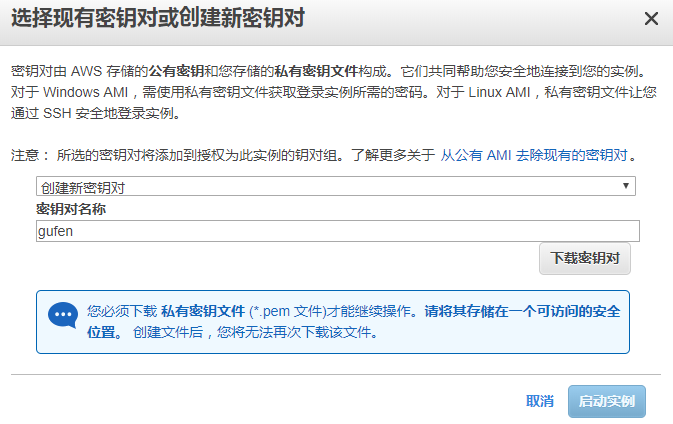
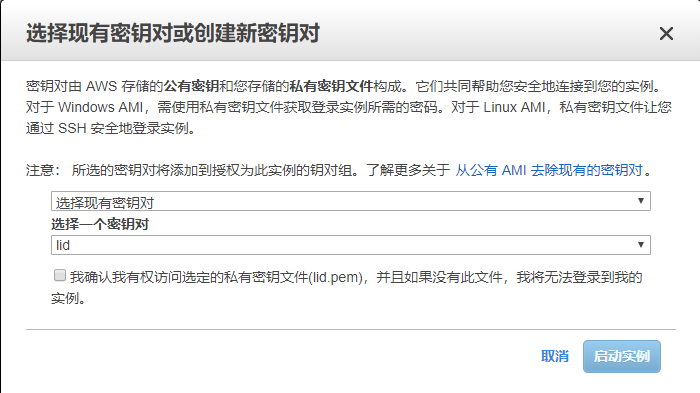
a

Changed region(s): [[0.0, 0.0, 1.0, 1.0]]

diff --git a/_posts/2019/2019-02-21-amazon-server.md b/_posts/2019/2019-02-21-amazon-server.md
@@ -20,27 +20,27 @@ tags: [other]
 
 官网地址：https://amazonaws-china.com/cn
 
-如果你没有亚马逊账号，那么先注册一个账号，访问官网后，点击右上角的注册选项开始注册：
+- 如果你没有亚马逊账号，那么先注册一个账号，访问官网后，点击右上角的注册选项开始注册：
 
 
 
 ![选择注册选项，开始注册亚马逊账号](https://ldmyown.github.io\assets\images\2019\amazon-server\aws1.png)
 
-然后输入邮箱、密码等信息，如：
+- 输入邮箱、密码等信息，如：
 
 ![输入邮箱等信息](https://ldmyown.github.io\assets\images\2019\amazon-server\aws2.png)
 
-接着继续填写联系人信息，如下：
+- 填写联系人信息，如下：
 
 ![填写账号类型](https://ldmyown.github.io\assets\images\2019\amazon-server\aws3.png)
 
 ![填写个人信息](https://ldmyown.github.io\assets\images\2019\amazon-server\aws4.png)
 
-然后点击创建账户并继续，如果上面填写的信息没问题，则进入到信用卡验证这一步。如下：
+- 点击创建账户并继续，如果上面填写的信息没问题，则进入到信用卡验证这一步。如下：
 
 ![验证个人信息及信用卡信息](https://ldmyown.github.io\assets\images\2019\amazon-server\aws5.png)
 
-信息提交成功后，信用卡会扣款 1 美元。接着进入下一步，电话验证：
+- 信息提交成功后，信用卡会扣款 1 美元。接着进入下一步，电话验证：
 
 ![输入电话号码，获取 pin 码](https://ldmyown.github.io\assets\images\2019\amazon-server\aws6.png)
 
@@ -52,49 +52,52 @@ tags: [other]
 
 ![手机输入pin码，验证成功提示](https://ldmyown.github.io\assets\images\2019\amazon-server\aws8.png)
 
-然后接着点击继续进入下一步，选择支持计划：
+- 接着点击继续进入下一步，选择支持计划：
 
 ![选择免费方案](https://ldmyown.github.io\assets\images\2019\amazon-server\aws9.png)
 
-我们选择基本方案免费选项，进入下一步，这一步会我们的账户处于激活中，如果成功激活后会收到一封激活邮件，这个过程大概几分钟的时间：
+- 这里我只是免费体验一下，所以选择的是免费的方案，服务器性能较低，如果是土豪可以选择收费套餐
+
+
+- 下一步，会告诉我们账户正在激活中，如果成功激活，则会向我们绑定的邮箱中发一封激活邮件，这个过程大概几分钟的时间，此过程中不能操作创建实例，请耐心等待
 
 ![成功后会收到一封邮件提示](https://ldmyown.github.io\assets\images\2019\amazon-server\aws10.png)
 
 ## 亚马逊云 EC2 搭建
 
-点击右上角的我的账户，然后选择 AWS 控制台，输入账号、密码进行登录：
+- 点击右上角的我的账户，然后选择 AWS 控制台，输入账号、密码进行登录：
 
 ![登录 aws 控制台](https://ldmyown.github.io\assets\images\2019\amazon-server\aws11.png)
 
-登录后，右上角的地区选择一个合适的地区，如：
+- 登录后，右上角的地区选择一个合适的地区，如：
 
 ![选择合适的地区](https://ldmyown.github.io\assets\images\2019\amazon-server\aws12.png)
 
-接着，在左上角的服务，选择 EC2，如：
+- 左上角的服务，选择 EC2，如：
 
 ![在控制台选择 EC2](https://ldmyown.github.io\assets\images\2019\amazon-server\aws13.png)
 
-然后在新开的页面中，会有一个创建实例的选项：
+- 在新开的页面中，会有一个创建实例的选项：
 
 ![创建EC2实例](https://ldmyown.github.io\assets\images\2019\amazon-server\aws14.png)
 
-点击启动实例，进入到选择一个 Amazon 系统映像选项，往下拉，找到 Ubuntu Server 14.04 LTS (HVM) 选项（注意，要记得选择符合条件的免费套餐）：
+- 点击启动实例，进入到选择一个 Amazon 系统映像选项，往下拉，找到 Ubuntu Server 14.04 LTS (HVM) 选项（注意，要记得选择符合条件的免费套餐）：
 
 ![选择免费配置套餐](https://ldmyown.github.io\assets\images\2019\amazon-server\aws15.png)
 
-然后点击选择选项，进入到实例类型选项，仍旧选择符合条件的免费套餐，然后点击审核和启动：
+- 点击选择选项，进入到实例类型选项，仍旧选择符合条件的免费套餐，然后点击审核和启动：
 
 ![审核和启动](https://ldmyown.github.io\assets\images\2019\amazon-server\aws16.png)
 
-接着是核查实例启动，这里不用操作什么，直接点击启动：
+- 核查实例启动，这里不用操作什么，直接点击启动：
 
 ![启动创建实例](https://ldmyown.github.io\assets\images\2019\amazon-server\aws17.png)
 
-然后出现一个选择现有密钥对或创建新密钥对的弹窗，这里我们选择创建新密钥对，然后密钥对名称你可以随便取一个名字，不过该名字在登录时有用，这里我取 gufen，如下：
+然后出现一个选择现有密钥对或创建新密钥对的弹窗，这里我们选择创建新密钥对，然后密钥对名称你可以随便取一个名字，不过该名字在登录时有用，这里我取lid , 如下：
 
 ![输入密钥对名称，下载密钥对](https://ldmyown.github.io\assets\images\2019\amazon-server\aws18.png)
 
-然后点击下载密钥对，下载一个后缀为 pem 的文件,因为我这里名称为gufen，所以下载的文件名称为 gufen.pem 。(注意该文件记得保存，后面会用到，用于服务器登录)。然后启动实例即可：
+然后点击下载密钥对，下载一个后缀为 pem 的文件,因为我这里名称为lid，所以下载的文件名称为 lid.pem 。(注意该文件记得保存，后面会用到，用于服务器登录)。然后启动实例即可：
 
 ![选择密钥对，然后启动实例](https://ldmyown.github.io\assets\images\2019\amazon-server\aws19.png)
 
@@ -148,11 +151,11 @@ tags: [other]
 
 ![成功连接到 EC2](https://ldmyown.github.io\assets\images\2019\amazon-server\aws28.png)
 
-然后就可以开始搭建各种服务了，诸如酸酸等各种服务。:) 。如果在搭建过程中需要使用 root 用户，使用 sudo -i 命令切换到 root 用户即可。上面关于亚马逊云aws搭建基本就完成了，不过还要记得配置防火墙。
+然后就可以开始搭建各种服务了。:) 。如果在搭建过程中需要使用 root 用户，使用 sudo -i 命令切换到 root 用户即可。上面关于亚马逊云aws搭建基本就完成了，不过还要记得配置防火墙。
 
 ## 修改 EC2 防火墙配置
 
-在搭建完相应的服务后，比如酸酸，发现始终连接不上。亚马逊云 EC2 防火墙入站配置默认只开启了 22 端口的流量，你可以修改该配置，把协议和端口范围都改成全部，或者新建一条防火墙规则，开启某个特定端口。
+在搭建完相应的服务后，发现始终连接不上。亚马逊云 EC2 防火墙入站配置默认只开启了 22 端口的流量，你可以修改该配置，把协议和端口范围都改成全部，或者新建一条防火墙规则，开启某个特定端口。
 
 在实例列表中，往右边拖动，有一个安全组标签，选择该标签进入防火墙配置：
 
